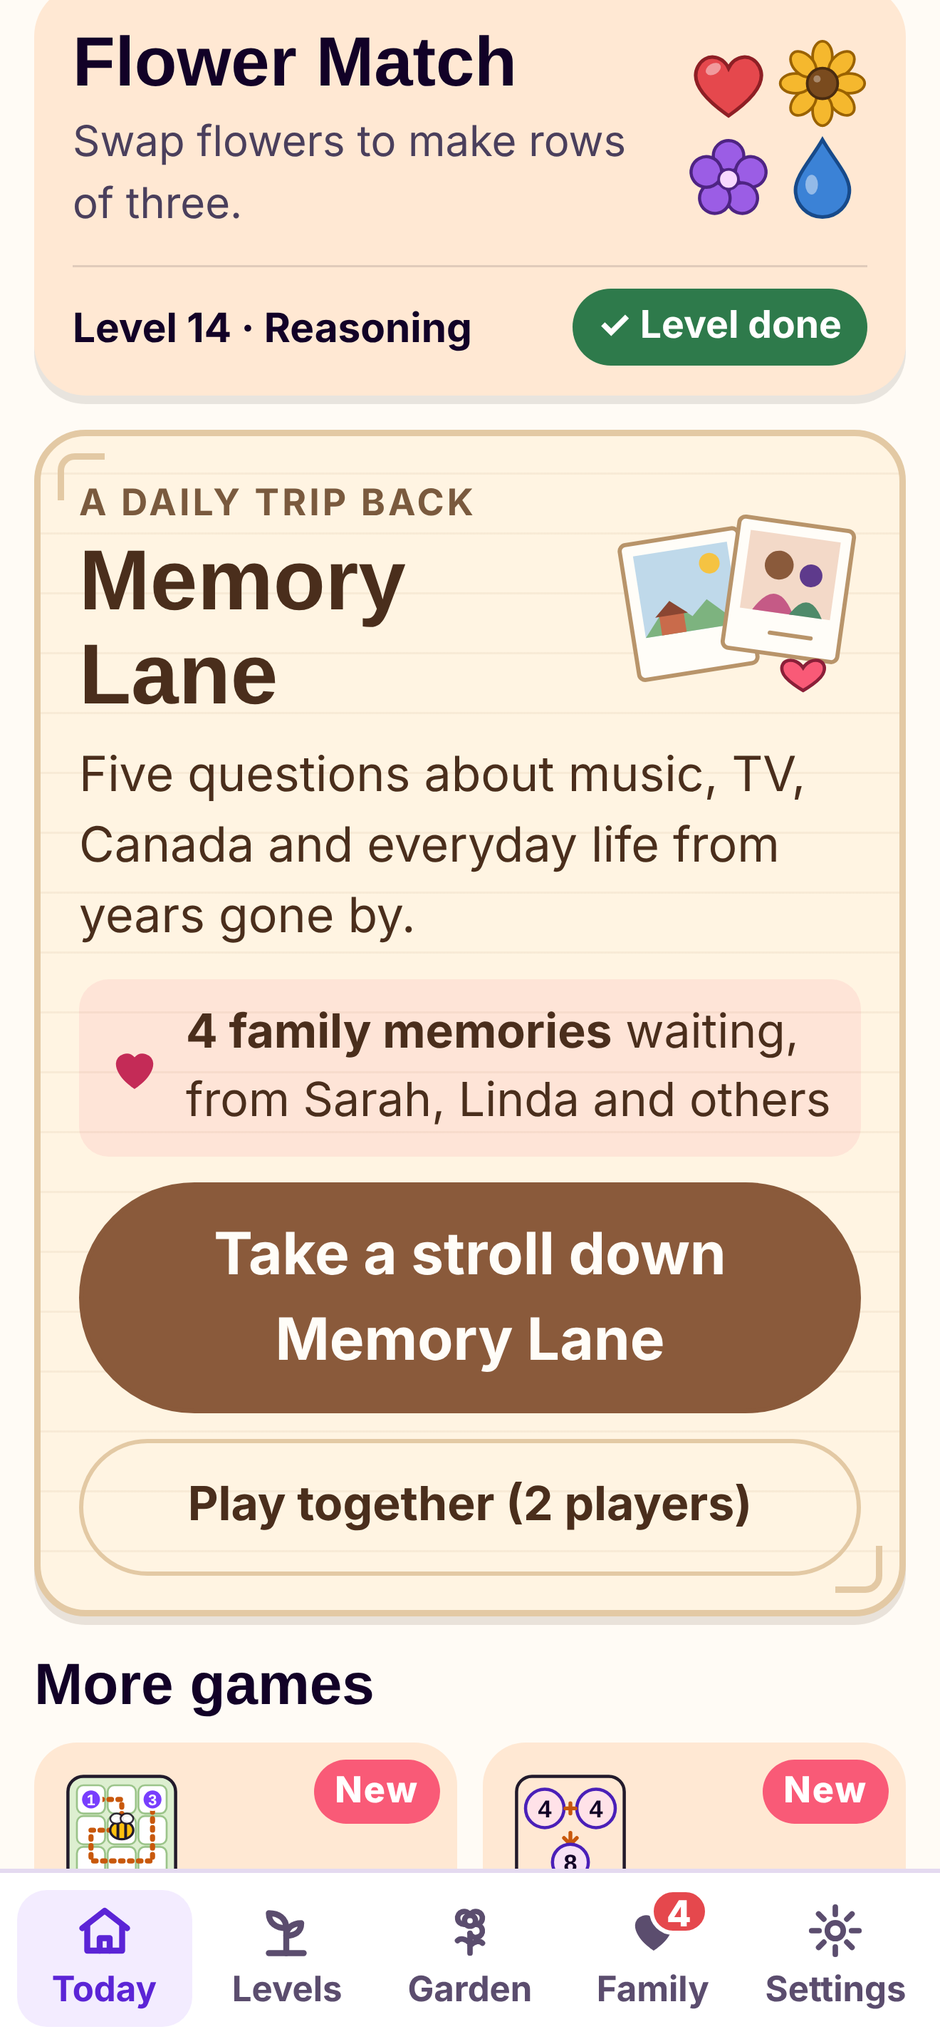
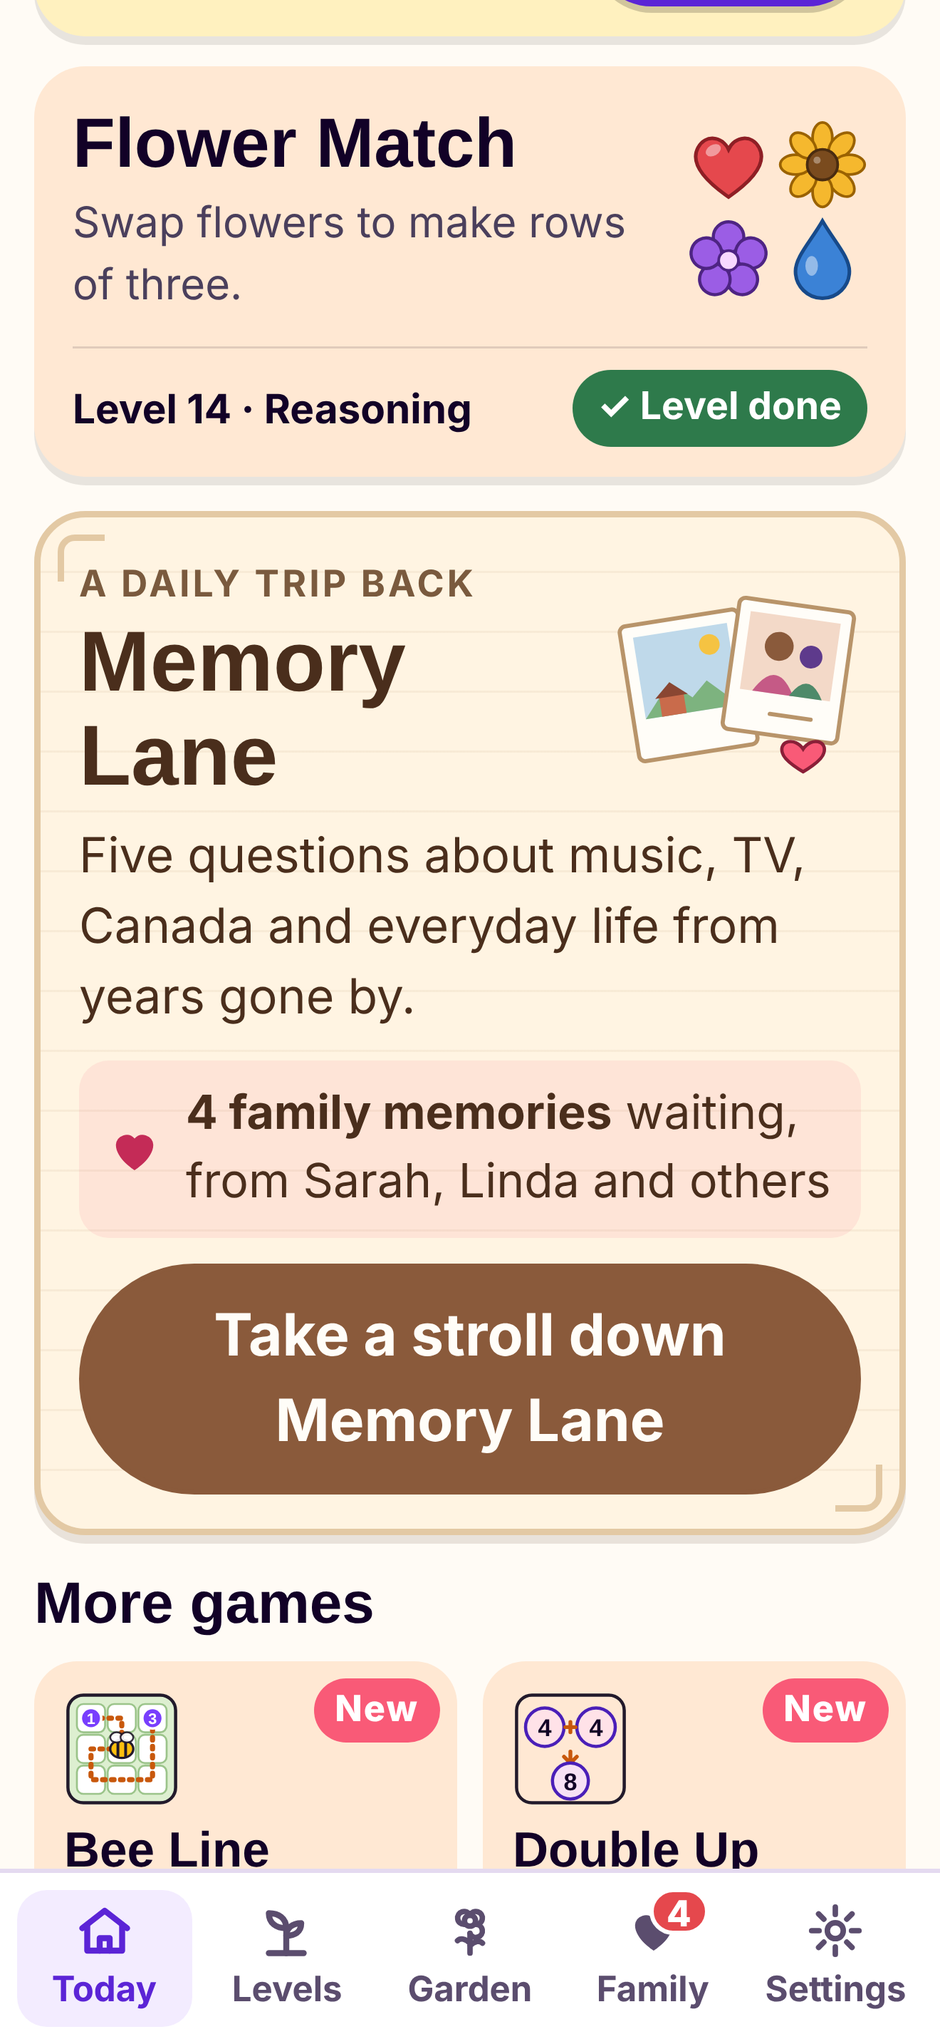
Remove 'Play together (2 players)' from Memory Lane; refreshed App Store screenshots
Claude-Session: https://claude.ai/code/session_01CUcMhvbuwFGTv1t4uDezSc

Changed region(s): [[0.0311, 0.0, 0.9629, 0.931]]

diff --git a/index.html b/index.html
@@ -1445,7 +1445,6 @@ function renderHome() {
       <div class="week">${week.map(w => `<div class="d"><span>${w.lab}</span><span class="dot ${w.on ? "on" : ""} ${w.today ? "today" : ""}">${w.on ? "✓" : ""}</span></div>`).join("")}</div>
     </section>
     ${shareCardHTML()}`;
-  const mt = document.getElementById("ml-together"); if (mt) mt.onclick = startTogether;
   setTimeout(showTrophyUnlocks, 600);
   maybeInviteNudge();
 }
@@ -1481,9 +1480,8 @@ function memoryLaneCard(rec, plan) {
       ${fam}
       ${done
         ? `<p class="ml-done"><span class="pill done">✓ ${rec.trivia.right} of 5 today</span> Come back tomorrow for five more.</p>
-           <button class="btn block ml-alt" id="ml-together">Play together with someone</button>`
-        : `<button class="btn block big ml-go" data-go="splash" data-game="trivia">Take a stroll down Memory Lane</button>
-           <button class="btn block ml-alt" id="ml-together">Play together (2 players)</button>`}
+`
+        : `<button class="btn block big ml-go" data-go="splash" data-game="trivia">Take a stroll down Memory Lane</button>`}
     </section>`;
 }
 
@@ -1822,7 +1820,7 @@ function howToTrivia() {
   dialog(`<h2>How to play Memory Lane</h2><ul>
     <li>Five questions each day about music, TV, Canada and everyday life from years gone by.</li>
     <li>Tap the answer you think is right. Then read a little fact about it.</li>
-    <li>Fun to play together: ask the family what they remember!</li></ul>
+    <li>Family members can add their own memory questions on the Family tab.</li></ul>
     <button class="btn block" data-close>Let's play</button>`);
 }
 function drawTrivia() {
@@ -3023,7 +3021,7 @@ function renderReport() {
     </section>
     ${wins.length ? `<section class="card"><h3>Small wins to celebrate</h3><ul class="wins">${wins.map(w => `<li><strong>${new Date(w.k + "T12:00:00").toLocaleDateString(undefined, { month: "short", day: "numeric" })}:</strong> ${esc(w.text)}</li>`).join("")}</ul></section>` : ""}
     <section class="card"><h3>Ideas for the coming week</h3><ul class="wins">${needs.length ? needs.map(x => `<li>Encourage a few games of ${(FOCUS_GAMES[x.dom] || ["peek"]).map(g => GAMES[g].name).join(" or ")} for ${x.dom.toLowerCase()}. The daily plan already leans that way.</li>`).join("") : "<li>Everything is ticking along. Keep up the daily plan!</li>"}
-      <li>Play Memory Lane together and add a few questions about family history in Settings.</li></ul></section>
+      <li>Add a few memory questions about family history on the Family tab.</li></ul></section>
     <p class="muted small">Scores run from 0 to 100 and come from how each game went (tries, hints, mistakes; for Quick Peek, how short a flash she can catch). This report shows practice and progress in these games. It is not a medical test.</p>
     <button class="btn block" id="rp-copy">Copy this report to send to family</button>`;
   document.getElementById("rp-copy").onclick = () => copyText([`${S.name}'s brain workout report (${from} to ${to})`, `Days played: ${active} of 28. Current streak: ${streak()} days. Games finished: ${finished}.`, ...trends.map(x => `${x.dom}: ${x.label}. ${sentence(x)}`), peekReportLine(), twoReportLine(), wins.length ? `Small wins: ${wins.map(w => w.text).join("; ")}` : "", "(Practice and progress in the Heather app's games, not a medical test.)"].filter(Boolean).join("\n"));
@@ -3805,14 +3803,6 @@ function triviaMake(practice, players) {
   }
   return { qs, i: 0, right: 0, picked: null, practice: practice || !!players, players: players || null, scores: players ? [0, 0] : null };
 }
-function startTogether() {
-  dialog(`<h2>Play Memory Lane together</h2><p>Take turns answering. Each player gets 3 questions. Play as a team or see who remembers more!</p>
-    <label class="lab" for="p1">First player</label><input type="text" id="p1" value="${esc(S.name)}">
-    <label class="lab" for="p2">Second player</label><input type="text" id="p2" placeholder="Sarah">
-    <button class="btn block big" id="p-go">Start</button><button class="btn block quiet" data-close>Cancel</button>`, o => {
-      o.querySelector("#p-go").onclick = () => { const a = o.querySelector("#p1").value.trim() || S.name, b = o.querySelector("#p2").value.trim() || "Guest"; o.remove(); go("trivia", { players: [a, b] }); };
-    });
-}
 
 const PLAY_TRI = '<svg viewBox="0 0 24 24" aria-hidden="true"><path d="M8 5.5v13a1 1 0 0 0 1.5.86l10.6-6.5a1 1 0 0 0 0-1.72L9.5 4.64A1 1 0 0 0 8 5.5z" fill="currentColor"/></svg>';
 function gameCard(g, rec, k) {
@@ -3872,7 +3862,6 @@ function renderSplash(opts = {}) {
     const doneLine = { ws: () => `You found all of today's words${d.hints ? "" : " without a hint"}.`, su: () => `You solved today's puzzle${d.mistakes ? "" : " without a mistake"}.`, odd: () => `You spotted all 8 today${d.misses ? "" : " without a miss"}.`, peek: () => `You got ${d.right} of 15 today, with a ${d.thr} ms flash time.`, two: () => `Doing both at once: plant watered ${d.steer}% of the time, ${d.signs}% of sunflowers caught.`, walk: () => `You remembered ${d.route} of ${d.of} turns and ${d.lm} of ${d.lmOf} places today.`, bee: () => `You flew today's Bee Line${d.hints ? "" : " without a hint"}.`, dbl: () => `You joined everything into ${d.final}${d.hints ? "" : " without a hint"}.`, vine: () => `You found every word in today's vines${d.hints ? "" : " without a hint"}.`, names: () => `You remembered ${d.names} of ${d.of} names today. Bean will ask about them tomorrow!`, trivia: () => `You got ${d.right} of 5 right today.` }[g];
     if (d.done) { status = doneLine(); btns = `<button class="btn block play" data-go="${g}" data-practice="1">Play a practice round</button>`; }
     else btns = `<button class="btn block play" data-go="${g}">${g === "ws" && d.found && d.found.length ? "Continue" : "Play"}</button>${how}`;
-    if (g === "trivia") btns += `<button class="btn block out" id="sp-together">Play together (2 players)</button>`;
     if (g === "two") status += `${status ? " " : ""}<span class="muted" style="font-weight:400">Plant speed and sign time each adjust after every round.</span>`;
     else if (g === "peek") status += `${status ? " " : ""}<span class="muted" style="font-weight:400">Stage ${peekState().stage} of 3 · flash time ${Math.round(peekDur(peekState().stage))} ms. It adjusts after every peek.</span>`;
     else if (g !== "trivia") status += `${status ? " " : ""}<span class="muted" style="font-weight:400">Difficulty: ${LEVEL_WORD[adaptLevel(g)]}. It adjusts to how you're doing.</span>`;
@@ -3887,7 +3876,6 @@ function renderSplash(opts = {}) {
       <div class="btns">${btns}</div>
       <p class="meta"><strong>${date}</strong>${{ tiles: "Today's letters", memory: "Today's cards", ws: "Today's theme: " + wsThemeFor(k, () => 0, false), su: "Today's puzzle", odd: "Today's rounds", peek: "15 quick peeks", two: "4 short rounds", walk: "Today's walk", names: "Today's neighbours", bee: "Today's garden", dbl: "Today's numbers", vine: "Today's vines", trivia: "Today's questions" }[g]} · ${GAMES[g].domain}</p>
     </section>`;
-  const tg = document.getElementById("sp-together"); if (tg) tg.onclick = startTogether;
   const h = document.getElementById("sp-how");
   if (h) h.onclick = () => ({ tiles: howToTiles, memory: howToMemory, ws: howToWS, su: howToSU, odd: howToOdd, peek: howToPeek, two: howToTwo, walk: howToWalk, names: howToNames, bee: howToBee, dbl: howToDbl, vine: howToVine, trivia: howToTrivia }[g])();
 }

diff --git a/ios/Heather/Web/index.html b/ios/Heather/Web/index.html
@@ -1445,7 +1445,6 @@ function renderHome() {
       <div class="week">${week.map(w => `<div class="d"><span>${w.lab}</span><span class="dot ${w.on ? "on" : ""} ${w.today ? "today" : ""}">${w.on ? "✓" : ""}</span></div>`).join("")}</div>
     </section>
     ${shareCardHTML()}`;
-  const mt = document.getElementById("ml-together"); if (mt) mt.onclick = startTogether;
   setTimeout(showTrophyUnlocks, 600);
   maybeInviteNudge();
 }
@@ -1481,9 +1480,8 @@ function memoryLaneCard(rec, plan) {
       ${fam}
       ${done
         ? `<p class="ml-done"><span class="pill done">✓ ${rec.trivia.right} of 5 today</span> Come back tomorrow for five more.</p>
-           <button class="btn block ml-alt" id="ml-together">Play together with someone</button>`
-        : `<button class="btn block big ml-go" data-go="splash" data-game="trivia">Take a stroll down Memory Lane</button>
-           <button class="btn block ml-alt" id="ml-together">Play together (2 players)</button>`}
+`
+        : `<button class="btn block big ml-go" data-go="splash" data-game="trivia">Take a stroll down Memory Lane</button>`}
     </section>`;
 }
 
@@ -1822,7 +1820,7 @@ function howToTrivia() {
   dialog(`<h2>How to play Memory Lane</h2><ul>
     <li>Five questions each day about music, TV, Canada and everyday life from years gone by.</li>
     <li>Tap the answer you think is right. Then read a little fact about it.</li>
-    <li>Fun to play together: ask the family what they remember!</li></ul>
+    <li>Family members can add their own memory questions on the Family tab.</li></ul>
     <button class="btn block" data-close>Let's play</button>`);
 }
 function drawTrivia() {
@@ -3023,7 +3021,7 @@ function renderReport() {
     </section>
     ${wins.length ? `<section class="card"><h3>Small wins to celebrate</h3><ul class="wins">${wins.map(w => `<li><strong>${new Date(w.k + "T12:00:00").toLocaleDateString(undefined, { month: "short", day: "numeric" })}:</strong> ${esc(w.text)}</li>`).join("")}</ul></section>` : ""}
     <section class="card"><h3>Ideas for the coming week</h3><ul class="wins">${needs.length ? needs.map(x => `<li>Encourage a few games of ${(FOCUS_GAMES[x.dom] || ["peek"]).map(g => GAMES[g].name).join(" or ")} for ${x.dom.toLowerCase()}. The daily plan already leans that way.</li>`).join("") : "<li>Everything is ticking along. Keep up the daily plan!</li>"}
-      <li>Play Memory Lane together and add a few questions about family history in Settings.</li></ul></section>
+      <li>Add a few memory questions about family history on the Family tab.</li></ul></section>
     <p class="muted small">Scores run from 0 to 100 and come from how each game went (tries, hints, mistakes; for Quick Peek, how short a flash she can catch). This report shows practice and progress in these games. It is not a medical test.</p>
     <button class="btn block" id="rp-copy">Copy this report to send to family</button>`;
   document.getElementById("rp-copy").onclick = () => copyText([`${S.name}'s brain workout report (${from} to ${to})`, `Days played: ${active} of 28. Current streak: ${streak()} days. Games finished: ${finished}.`, ...trends.map(x => `${x.dom}: ${x.label}. ${sentence(x)}`), peekReportLine(), twoReportLine(), wins.length ? `Small wins: ${wins.map(w => w.text).join("; ")}` : "", "(Practice and progress in the Heather app's games, not a medical test.)"].filter(Boolean).join("\n"));
@@ -3646,14 +3644,6 @@ function triviaMake(practice, players) {
   }
   return { qs, i: 0, right: 0, picked: null, practice: practice || !!players, players: players || null, scores: players ? [0, 0] : null };
 }
-function startTogether() {
-  dialog(`<h2>Play Memory Lane together</h2><p>Take turns answering. Each player gets 3 questions. Play as a team or see who remembers more!</p>
-    <label class="lab" for="p1">First player</label><input type="text" id="p1" value="${esc(S.name)}">
-    <label class="lab" for="p2">Second player</label><input type="text" id="p2" placeholder="Sarah">
-    <button class="btn block big" id="p-go">Start</button><button class="btn block quiet" data-close>Cancel</button>`, o => {
-      o.querySelector("#p-go").onclick = () => { const a = o.querySelector("#p1").value.trim() || S.name, b = o.querySelector("#p2").value.trim() || "Guest"; o.remove(); go("trivia", { players: [a, b] }); };
-    });
-}
 
 const PLAY_TRI = '<svg viewBox="0 0 24 24" aria-hidden="true"><path d="M8 5.5v13a1 1 0 0 0 1.5.86l10.6-6.5a1 1 0 0 0 0-1.72L9.5 4.64A1 1 0 0 0 8 5.5z" fill="currentColor"/></svg>';
 function gameCard(g, rec, k) {
@@ -3713,7 +3703,6 @@ function renderSplash(opts = {}) {
     const doneLine = { ws: () => `You found all of today's words${d.hints ? "" : " without a hint"}.`, su: () => `You solved today's puzzle${d.mistakes ? "" : " without a mistake"}.`, odd: () => `You spotted all 8 today${d.misses ? "" : " without a miss"}.`, peek: () => `You got ${d.right} of 15 today, with a ${d.thr} ms flash time.`, two: () => `Doing both at once: plant watered ${d.steer}% of the time, ${d.signs}% of sunflowers caught.`, walk: () => `You remembered ${d.route} of ${d.of} turns and ${d.lm} of ${d.lmOf} places today.`, bee: () => `You flew today's Bee Line${d.hints ? "" : " without a hint"}.`, dbl: () => `You joined everything into ${d.final}${d.hints ? "" : " without a hint"}.`, vine: () => `You found every word in today's vines${d.hints ? "" : " without a hint"}.`, names: () => `You remembered ${d.names} of ${d.of} names today. Bean will ask about them tomorrow!`, trivia: () => `You got ${d.right} of 5 right today.` }[g];
     if (d.done) { status = doneLine(); btns = `<button class="btn block play" data-go="${g}" data-practice="1">Play a practice round</button>`; }
     else btns = `<button class="btn block play" data-go="${g}">${g === "ws" && d.found && d.found.length ? "Continue" : "Play"}</button>${how}`;
-    if (g === "trivia") btns += `<button class="btn block out" id="sp-together">Play together (2 players)</button>`;
     if (g === "two") status += `${status ? " " : ""}<span class="muted" style="font-weight:400">Plant speed and sign time each adjust after every round.</span>`;
     else if (g === "peek") status += `${status ? " " : ""}<span class="muted" style="font-weight:400">Stage ${peekState().stage} of 3 · flash time ${Math.round(peekDur(peekState().stage))} ms. It adjusts after every peek.</span>`;
     else if (g !== "trivia") status += `${status ? " " : ""}<span class="muted" style="font-weight:400">Difficulty: ${LEVEL_WORD[adaptLevel(g)]}. It adjusts to how you're doing.</span>`;
@@ -3728,7 +3717,6 @@ function renderSplash(opts = {}) {
       <div class="btns">${btns}</div>
       <p class="meta"><strong>${date}</strong>${{ tiles: "Today's letters", memory: "Today's cards", ws: "Today's theme: " + wsThemeFor(k, () => 0, false), su: "Today's puzzle", odd: "Today's rounds", peek: "15 quick peeks", two: "4 short rounds", walk: "Today's walk", names: "Today's neighbours", bee: "Today's garden", dbl: "Today's numbers", vine: "Today's vines", trivia: "Today's questions" }[g]} · ${GAMES[g].domain}</p>
     </section>`;
-  const tg = document.getElementById("sp-together"); if (tg) tg.onclick = startTogether;
   const h = document.getElementById("sp-how");
   if (h) h.onclick = () => ({ tiles: howToTiles, memory: howToMemory, ws: howToWS, su: howToSU, odd: howToOdd, peek: howToPeek, two: howToTwo, walk: howToWalk, names: howToNames, bee: howToBee, dbl: howToDbl, vine: howToVine, trivia: howToTrivia }[g])();
 }

diff --git a/src/template.html b/src/template.html
@@ -1445,7 +1445,6 @@ function renderHome() {
       <div class="week">${week.map(w => `<div class="d"><span>${w.lab}</span><span class="dot ${w.on ? "on" : ""} ${w.today ? "today" : ""}">${w.on ? "✓" : ""}</span></div>`).join("")}</div>
     </section>
     ${shareCardHTML()}`;
-  const mt = document.getElementById("ml-together"); if (mt) mt.onclick = startTogether;
   setTimeout(showTrophyUnlocks, 600);
   maybeInviteNudge();
 }
@@ -1481,9 +1480,8 @@ function memoryLaneCard(rec, plan) {
       ${fam}
       ${done
         ? `<p class="ml-done"><span class="pill done">✓ ${rec.trivia.right} of 5 today</span> Come back tomorrow for five more.</p>
-           <button class="btn block ml-alt" id="ml-together">Play together with someone</button>`
-        : `<button class="btn block big ml-go" data-go="splash" data-game="trivia">Take a stroll down Memory Lane</button>
-           <button class="btn block ml-alt" id="ml-together">Play together (2 players)</button>`}
+`
+        : `<button class="btn block big ml-go" data-go="splash" data-game="trivia">Take a stroll down Memory Lane</button>`}
     </section>`;
 }
 
@@ -1822,7 +1820,7 @@ function howToTrivia() {
   dialog(`<h2>How to play Memory Lane</h2><ul>
     <li>Five questions each day about music, TV, Canada and everyday life from years gone by.</li>
     <li>Tap the answer you think is right. Then read a little fact about it.</li>
-    <li>Fun to play together: ask the family what they remember!</li></ul>
+    <li>Family members can add their own memory questions on the Family tab.</li></ul>
     <button class="btn block" data-close>Let's play</button>`);
 }
 function drawTrivia() {
@@ -3023,7 +3021,7 @@ function renderReport() {
     </section>
     ${wins.length ? `<section class="card"><h3>Small wins to celebrate</h3><ul class="wins">${wins.map(w => `<li><strong>${new Date(w.k + "T12:00:00").toLocaleDateString(undefined, { month: "short", day: "numeric" })}:</strong> ${esc(w.text)}</li>`).join("")}</ul></section>` : ""}
     <section class="card"><h3>Ideas for the coming week</h3><ul class="wins">${needs.length ? needs.map(x => `<li>Encourage a few games of ${(FOCUS_GAMES[x.dom] || ["peek"]).map(g => GAMES[g].name).join(" or ")} for ${x.dom.toLowerCase()}. The daily plan already leans that way.</li>`).join("") : "<li>Everything is ticking along. Keep up the daily plan!</li>"}
-      <li>Play Memory Lane together and add a few questions about family history in Settings.</li></ul></section>
+      <li>Add a few memory questions about family history on the Family tab.</li></ul></section>
     <p class="muted small">Scores run from 0 to 100 and come from how each game went (tries, hints, mistakes; for Quick Peek, how short a flash she can catch). This report shows practice and progress in these games. It is not a medical test.</p>
     <button class="btn block" id="rp-copy">Copy this report to send to family</button>`;
   document.getElementById("rp-copy").onclick = () => copyText([`${S.name}'s brain workout report (${from} to ${to})`, `Days played: ${active} of 28. Current streak: ${streak()} days. Games finished: ${finished}.`, ...trends.map(x => `${x.dom}: ${x.label}. ${sentence(x)}`), peekReportLine(), twoReportLine(), wins.length ? `Small wins: ${wins.map(w => w.text).join("; ")}` : "", "(Practice and progress in the Heather app's games, not a medical test.)"].filter(Boolean).join("\n"));
@@ -3805,14 +3803,6 @@ function triviaMake(practice, players) {
   }
   return { qs, i: 0, right: 0, picked: null, practice: practice || !!players, players: players || null, scores: players ? [0, 0] : null };
 }
-function startTogether() {
-  dialog(`<h2>Play Memory Lane together</h2><p>Take turns answering. Each player gets 3 questions. Play as a team or see who remembers more!</p>
-    <label class="lab" for="p1">First player</label><input type="text" id="p1" value="${esc(S.name)}">
-    <label class="lab" for="p2">Second player</label><input type="text" id="p2" placeholder="Sarah">
-    <button class="btn block big" id="p-go">Start</button><button class="btn block quiet" data-close>Cancel</button>`, o => {
-      o.querySelector("#p-go").onclick = () => { const a = o.querySelector("#p1").value.trim() || S.name, b = o.querySelector("#p2").value.trim() || "Guest"; o.remove(); go("trivia", { players: [a, b] }); };
-    });
-}
 
 const PLAY_TRI = '<svg viewBox="0 0 24 24" aria-hidden="true"><path d="M8 5.5v13a1 1 0 0 0 1.5.86l10.6-6.5a1 1 0 0 0 0-1.72L9.5 4.64A1 1 0 0 0 8 5.5z" fill="currentColor"/></svg>';
 function gameCard(g, rec, k) {
@@ -3872,7 +3862,6 @@ function renderSplash(opts = {}) {
     const doneLine = { ws: () => `You found all of today's words${d.hints ? "" : " without a hint"}.`, su: () => `You solved today's puzzle${d.mistakes ? "" : " without a mistake"}.`, odd: () => `You spotted all 8 today${d.misses ? "" : " without a miss"}.`, peek: () => `You got ${d.right} of 15 today, with a ${d.thr} ms flash time.`, two: () => `Doing both at once: plant watered ${d.steer}% of the time, ${d.signs}% of sunflowers caught.`, walk: () => `You remembered ${d.route} of ${d.of} turns and ${d.lm} of ${d.lmOf} places today.`, bee: () => `You flew today's Bee Line${d.hints ? "" : " without a hint"}.`, dbl: () => `You joined everything into ${d.final}${d.hints ? "" : " without a hint"}.`, vine: () => `You found every word in today's vines${d.hints ? "" : " without a hint"}.`, names: () => `You remembered ${d.names} of ${d.of} names today. Bean will ask about them tomorrow!`, trivia: () => `You got ${d.right} of 5 right today.` }[g];
     if (d.done) { status = doneLine(); btns = `<button class="btn block play" data-go="${g}" data-practice="1">Play a practice round</button>`; }
     else btns = `<button class="btn block play" data-go="${g}">${g === "ws" && d.found && d.found.length ? "Continue" : "Play"}</button>${how}`;
-    if (g === "trivia") btns += `<button class="btn block out" id="sp-together">Play together (2 players)</button>`;
     if (g === "two") status += `${status ? " " : ""}<span class="muted" style="font-weight:400">Plant speed and sign time each adjust after every round.</span>`;
     else if (g === "peek") status += `${status ? " " : ""}<span class="muted" style="font-weight:400">Stage ${peekState().stage} of 3 · flash time ${Math.round(peekDur(peekState().stage))} ms. It adjusts after every peek.</span>`;
     else if (g !== "trivia") status += `${status ? " " : ""}<span class="muted" style="font-weight:400">Difficulty: ${LEVEL_WORD[adaptLevel(g)]}. It adjusts to how you're doing.</span>`;
@@ -3887,7 +3876,6 @@ function renderSplash(opts = {}) {
       <div class="btns">${btns}</div>
       <p class="meta"><strong>${date}</strong>${{ tiles: "Today's letters", memory: "Today's cards", ws: "Today's theme: " + wsThemeFor(k, () => 0, false), su: "Today's puzzle", odd: "Today's rounds", peek: "15 quick peeks", two: "4 short rounds", walk: "Today's walk", names: "Today's neighbours", bee: "Today's garden", dbl: "Today's numbers", vine: "Today's vines", trivia: "Today's questions" }[g]} · ${GAMES[g].domain}</p>
     </section>`;
-  const tg = document.getElementById("sp-together"); if (tg) tg.onclick = startTogether;
   const h = document.getElementById("sp-how");
   if (h) h.onclick = () => ({ tiles: howToTiles, memory: howToMemory, ws: howToWS, su: howToSU, odd: howToOdd, peek: howToPeek, two: howToTwo, walk: howToWalk, names: howToNames, bee: howToBee, dbl: howToDbl, vine: howToVine, trivia: howToTrivia }[g])();
 }
